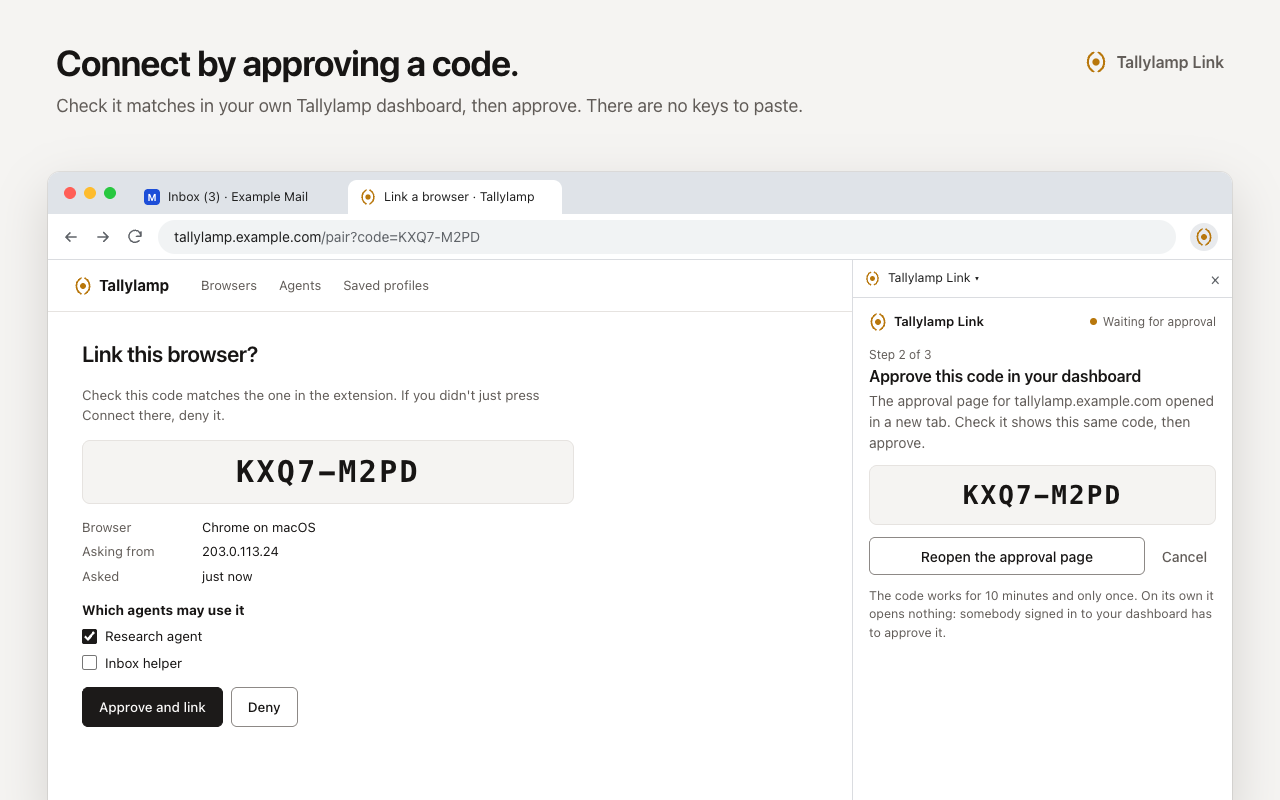
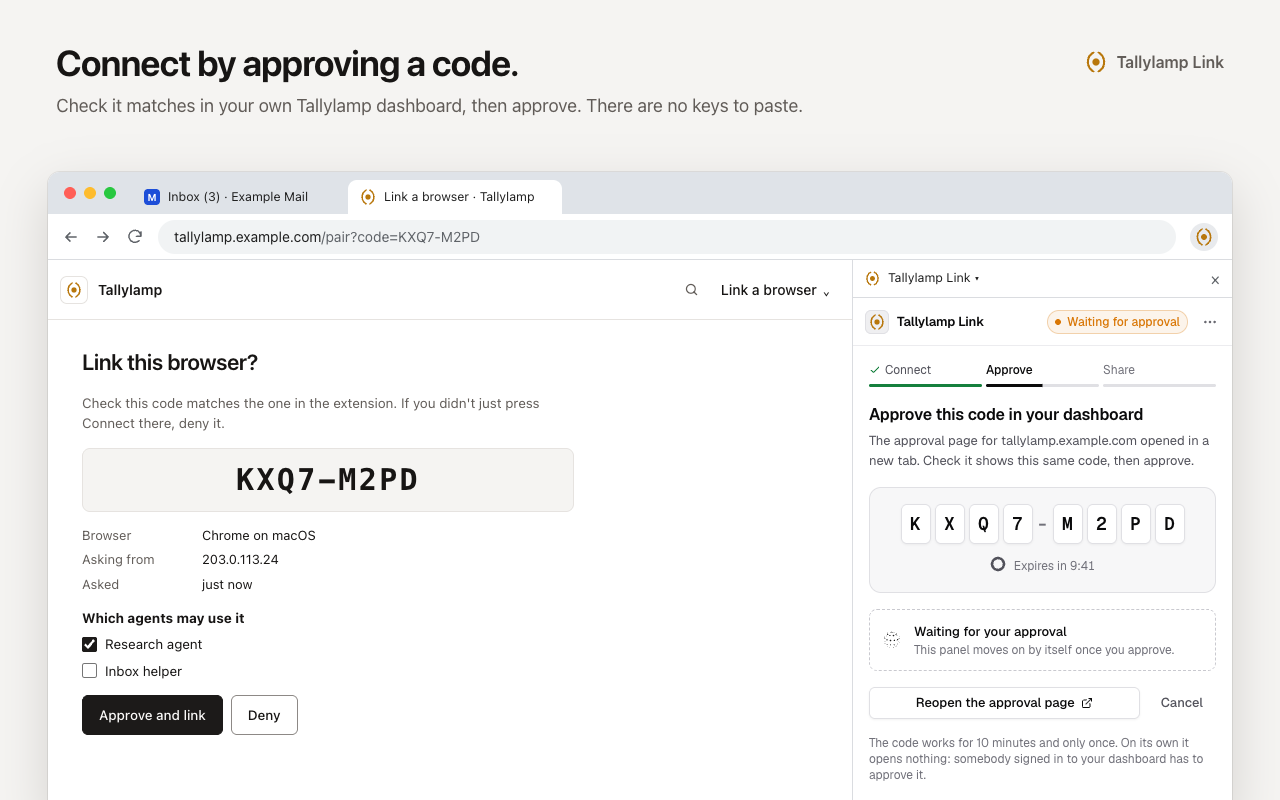
Report the real release on the dashboard, and redraw the store images
/api/v1/status sent config.version, a constant still set to 0.1.0, so
since the redesign put the version in the sidebar every dashboard said
v0.1.0, as did Settings. It now sends config.release, which is read from
package.json and is what workers already compare.

The store images are redrawn from the current Tallylamp Link panel. The
approval page in screenshot 3 gets the bar the dashboard shows below
900px (the brand, search and the page menu) in place of the old top nav.

diff --git a/store/stage.html b/store/stage.html
@@ -97,9 +97,15 @@
 
   /* The Tallylamp dashboard's approval page, from dashboard/app.js pairView. */
   .dash { height: 100%; display: flex; flex-direction: column; }
-  .dash > header { height: 52px; display: flex; align-items: center; gap: 22px; padding: 0 26px; border-bottom: 1px solid var(--line); font-size: 13px; color: var(--muted); flex: none; }
-  .dash > header b { display: flex; align-items: center; gap: 7px; font-size: 15px; color: var(--text); margin-right: 10px; }
-  .dash > header img { width: 18px; }
+  /* Below 900px the dashboard folds its sidebar into this bar: the brand, search, and a menu
+     named after the page you are on. */
+  .dash > header { height: 60px; display: flex; align-items: center; gap: 8px; padding: 0 16px 0 12px; border-bottom: 1px solid var(--line); font-size: 14px; flex: none; }
+  .dash > header b { display: flex; align-items: center; gap: 10px; font-size: 14px; font-weight: 600; color: var(--text); }
+  .dash > header .tile { width: 28px; height: 28px; display: grid; place-items: center; border: 1px solid var(--line); border-radius: 7px; background: #fff; }
+  .dash > header img { width: 16px; }
+  .dash > header svg { margin-left: auto; width: 15px; height: 15px; fill: none; stroke: var(--muted); stroke-width: 2; stroke-linecap: round; }
+  .dash > header .pages { padding: 0 6px 0 14px; font-weight: 500; color: var(--text); }
+  .dash > header .pages::after { content: "⌄"; margin-left: 6px; font-size: 12px; }
   .pair { padding: 26px 34px; max-width: 560px; display: flex; flex-direction: column; gap: 14px; }
   .pair h2 { margin: 0; font-size: 22px; font-weight: 600; letter-spacing: -0.015em; }
   .pair p { margin: 0; color: var(--muted); font-size: 13.5px; }
@@ -204,7 +210,7 @@ const PAGES = {
       ${Array.from({ length: 8 }, (_, i) => `<tr>${Array.from({ length: 6 }, (_, j) => `<td>${j === 0 ? i + 10 : "&nbsp;"}</td>`).join("")}</tr>`).join("")}
     </table></div>`;
   },
-  pair: () => `<div class="dash"><header><b><img src="${MARK}" alt="">Tallylamp</b><span>Browsers</span><span>Agents</span><span>Saved profiles</span></header>
+  pair: () => `<div class="dash"><header><b><span class="tile"><img src="${MARK}" alt=""></span>Tallylamp</b><svg viewBox="0 0 24 24" aria-hidden="true"><circle cx="11" cy="11" r="7"/><path d="m20 20-4-4"/></svg><span class="pages">Link a browser</span></header>
     <div class="pair">
       <h2>Link this browser?</h2>
       <p>Check this code matches the one in the extension. If you didn't just press Connect there, deny it.</p>

diff --git a/src/api.ts b/src/api.ts
@@ -307,7 +307,7 @@ export function mountApi(app: Express, browsers: BrowserManager): void {
 
   api.get("/api/v1/status", (req, res) => {
     res.json({
-      version: config.version,
+      version: config.release,
       maxBrowsers: config.maxBrowsers,
       running: browsers.runningCount(),
       occupiedSlots: browsers.occupiedSlotCount(),
